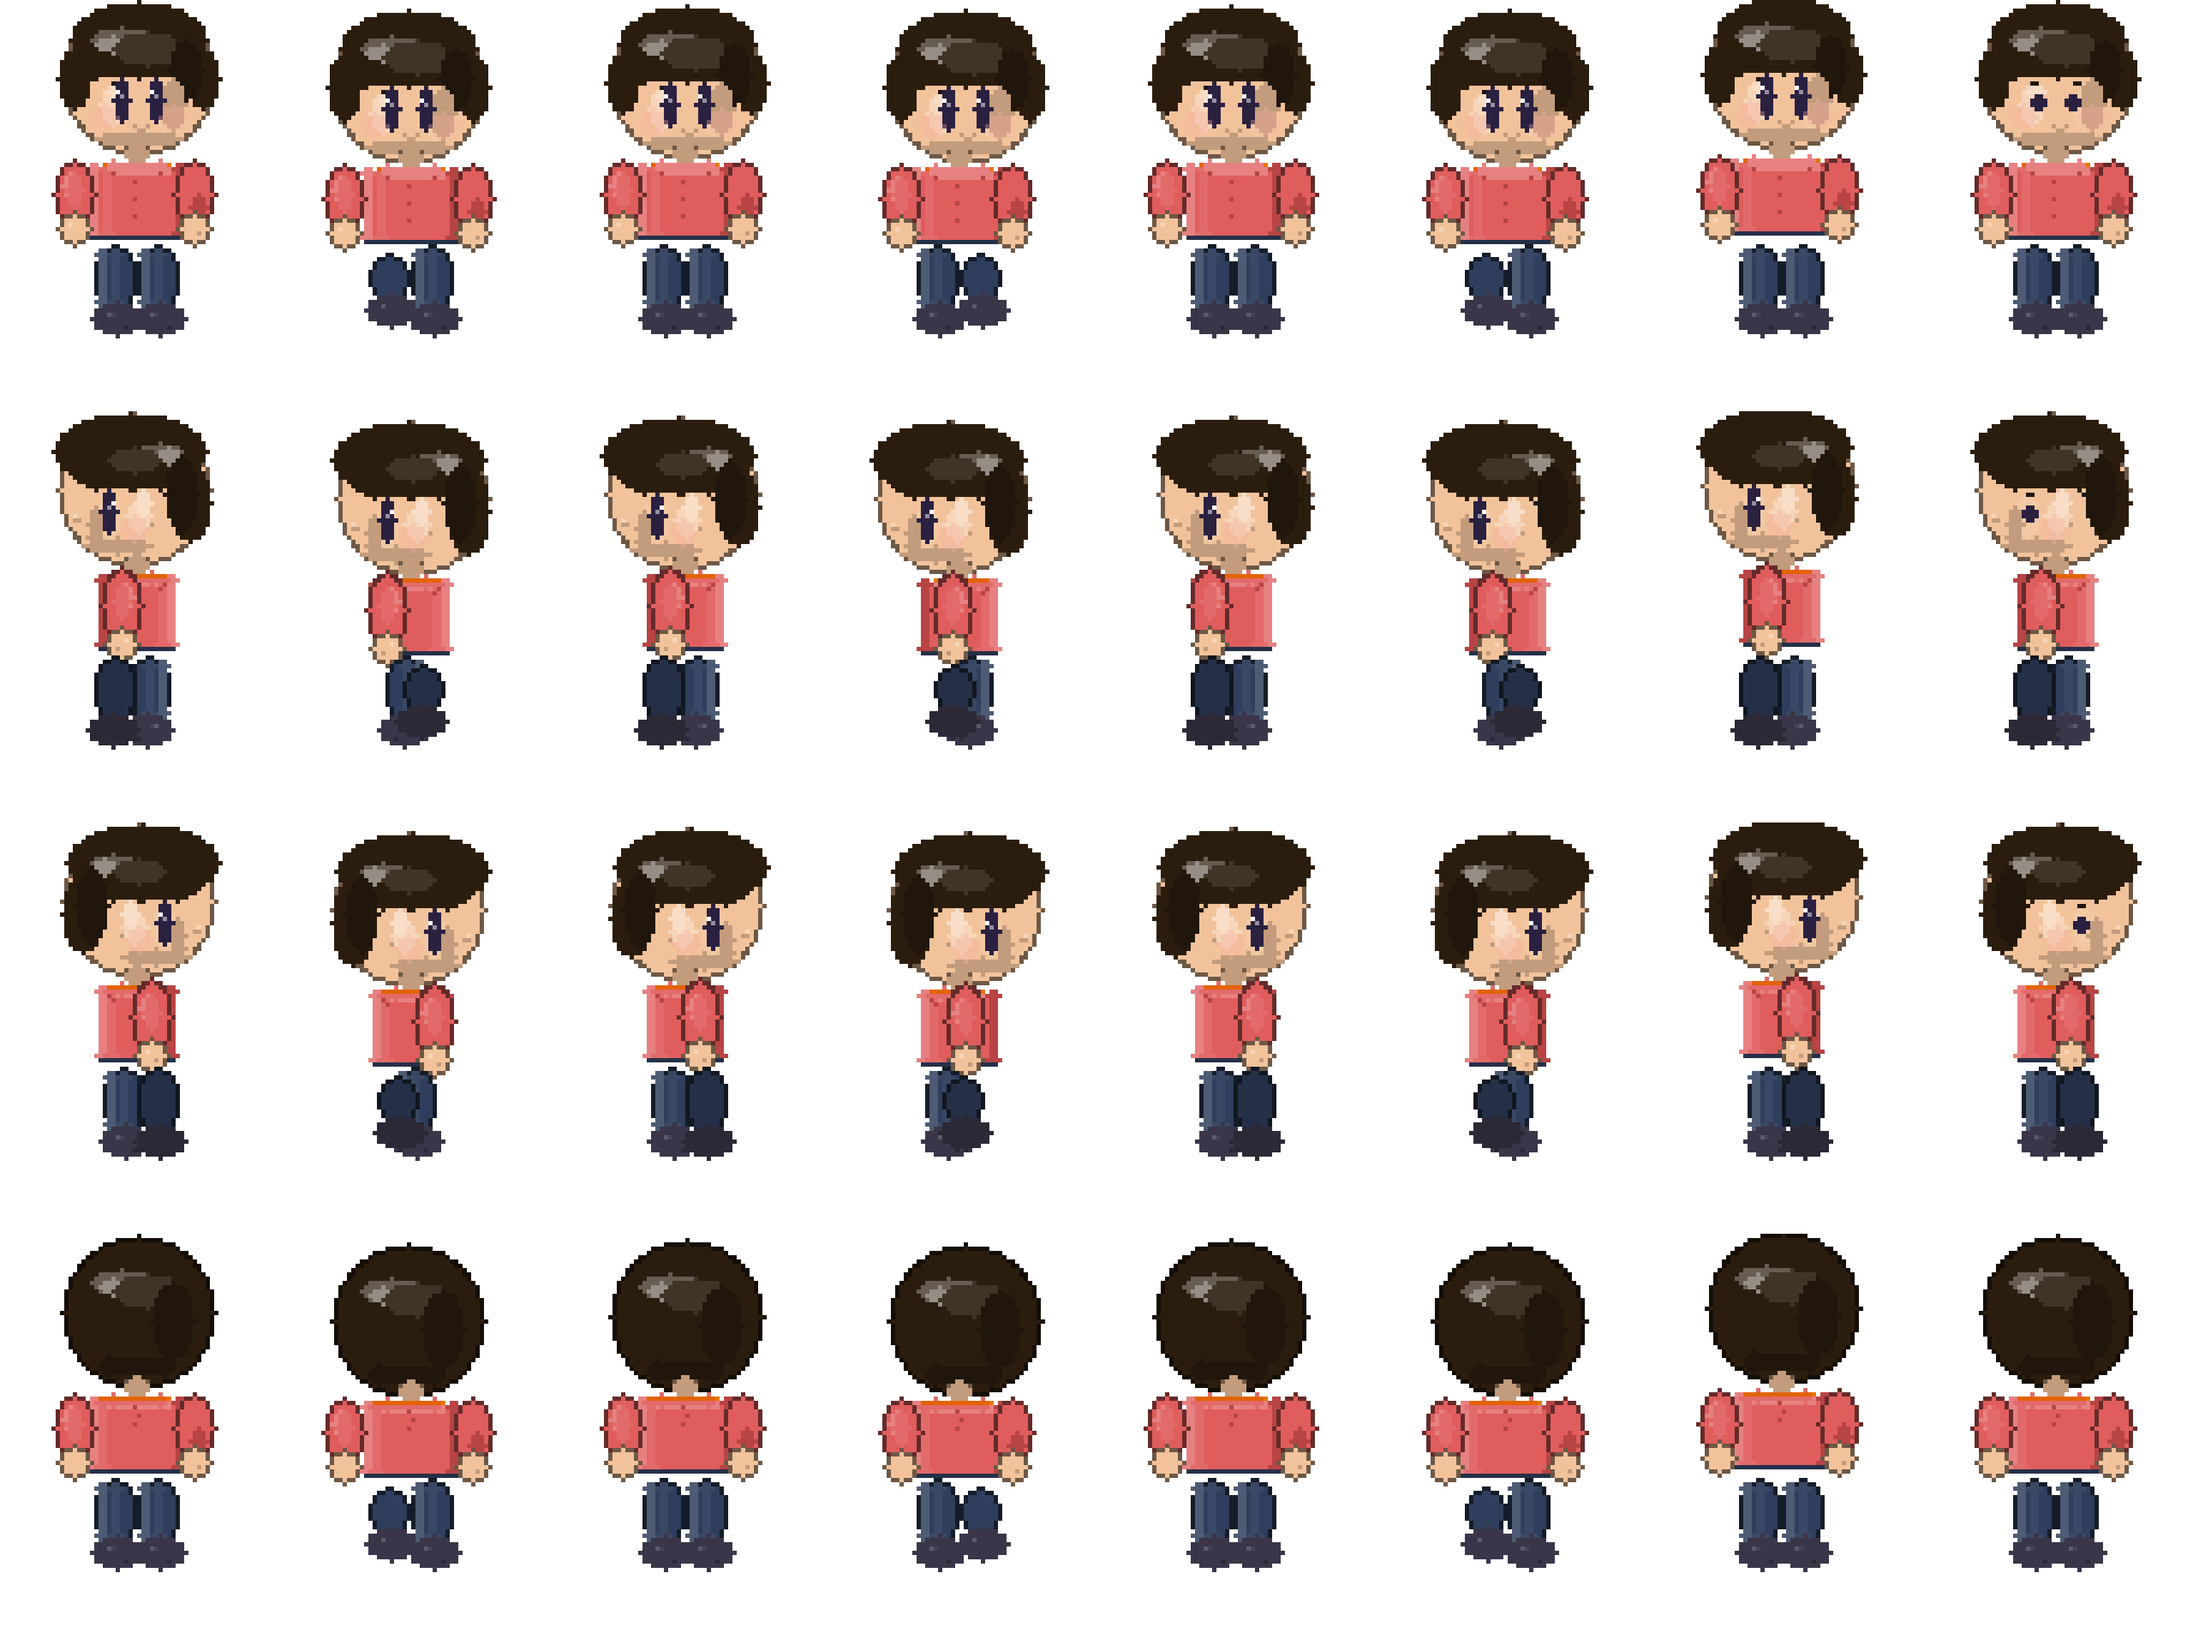
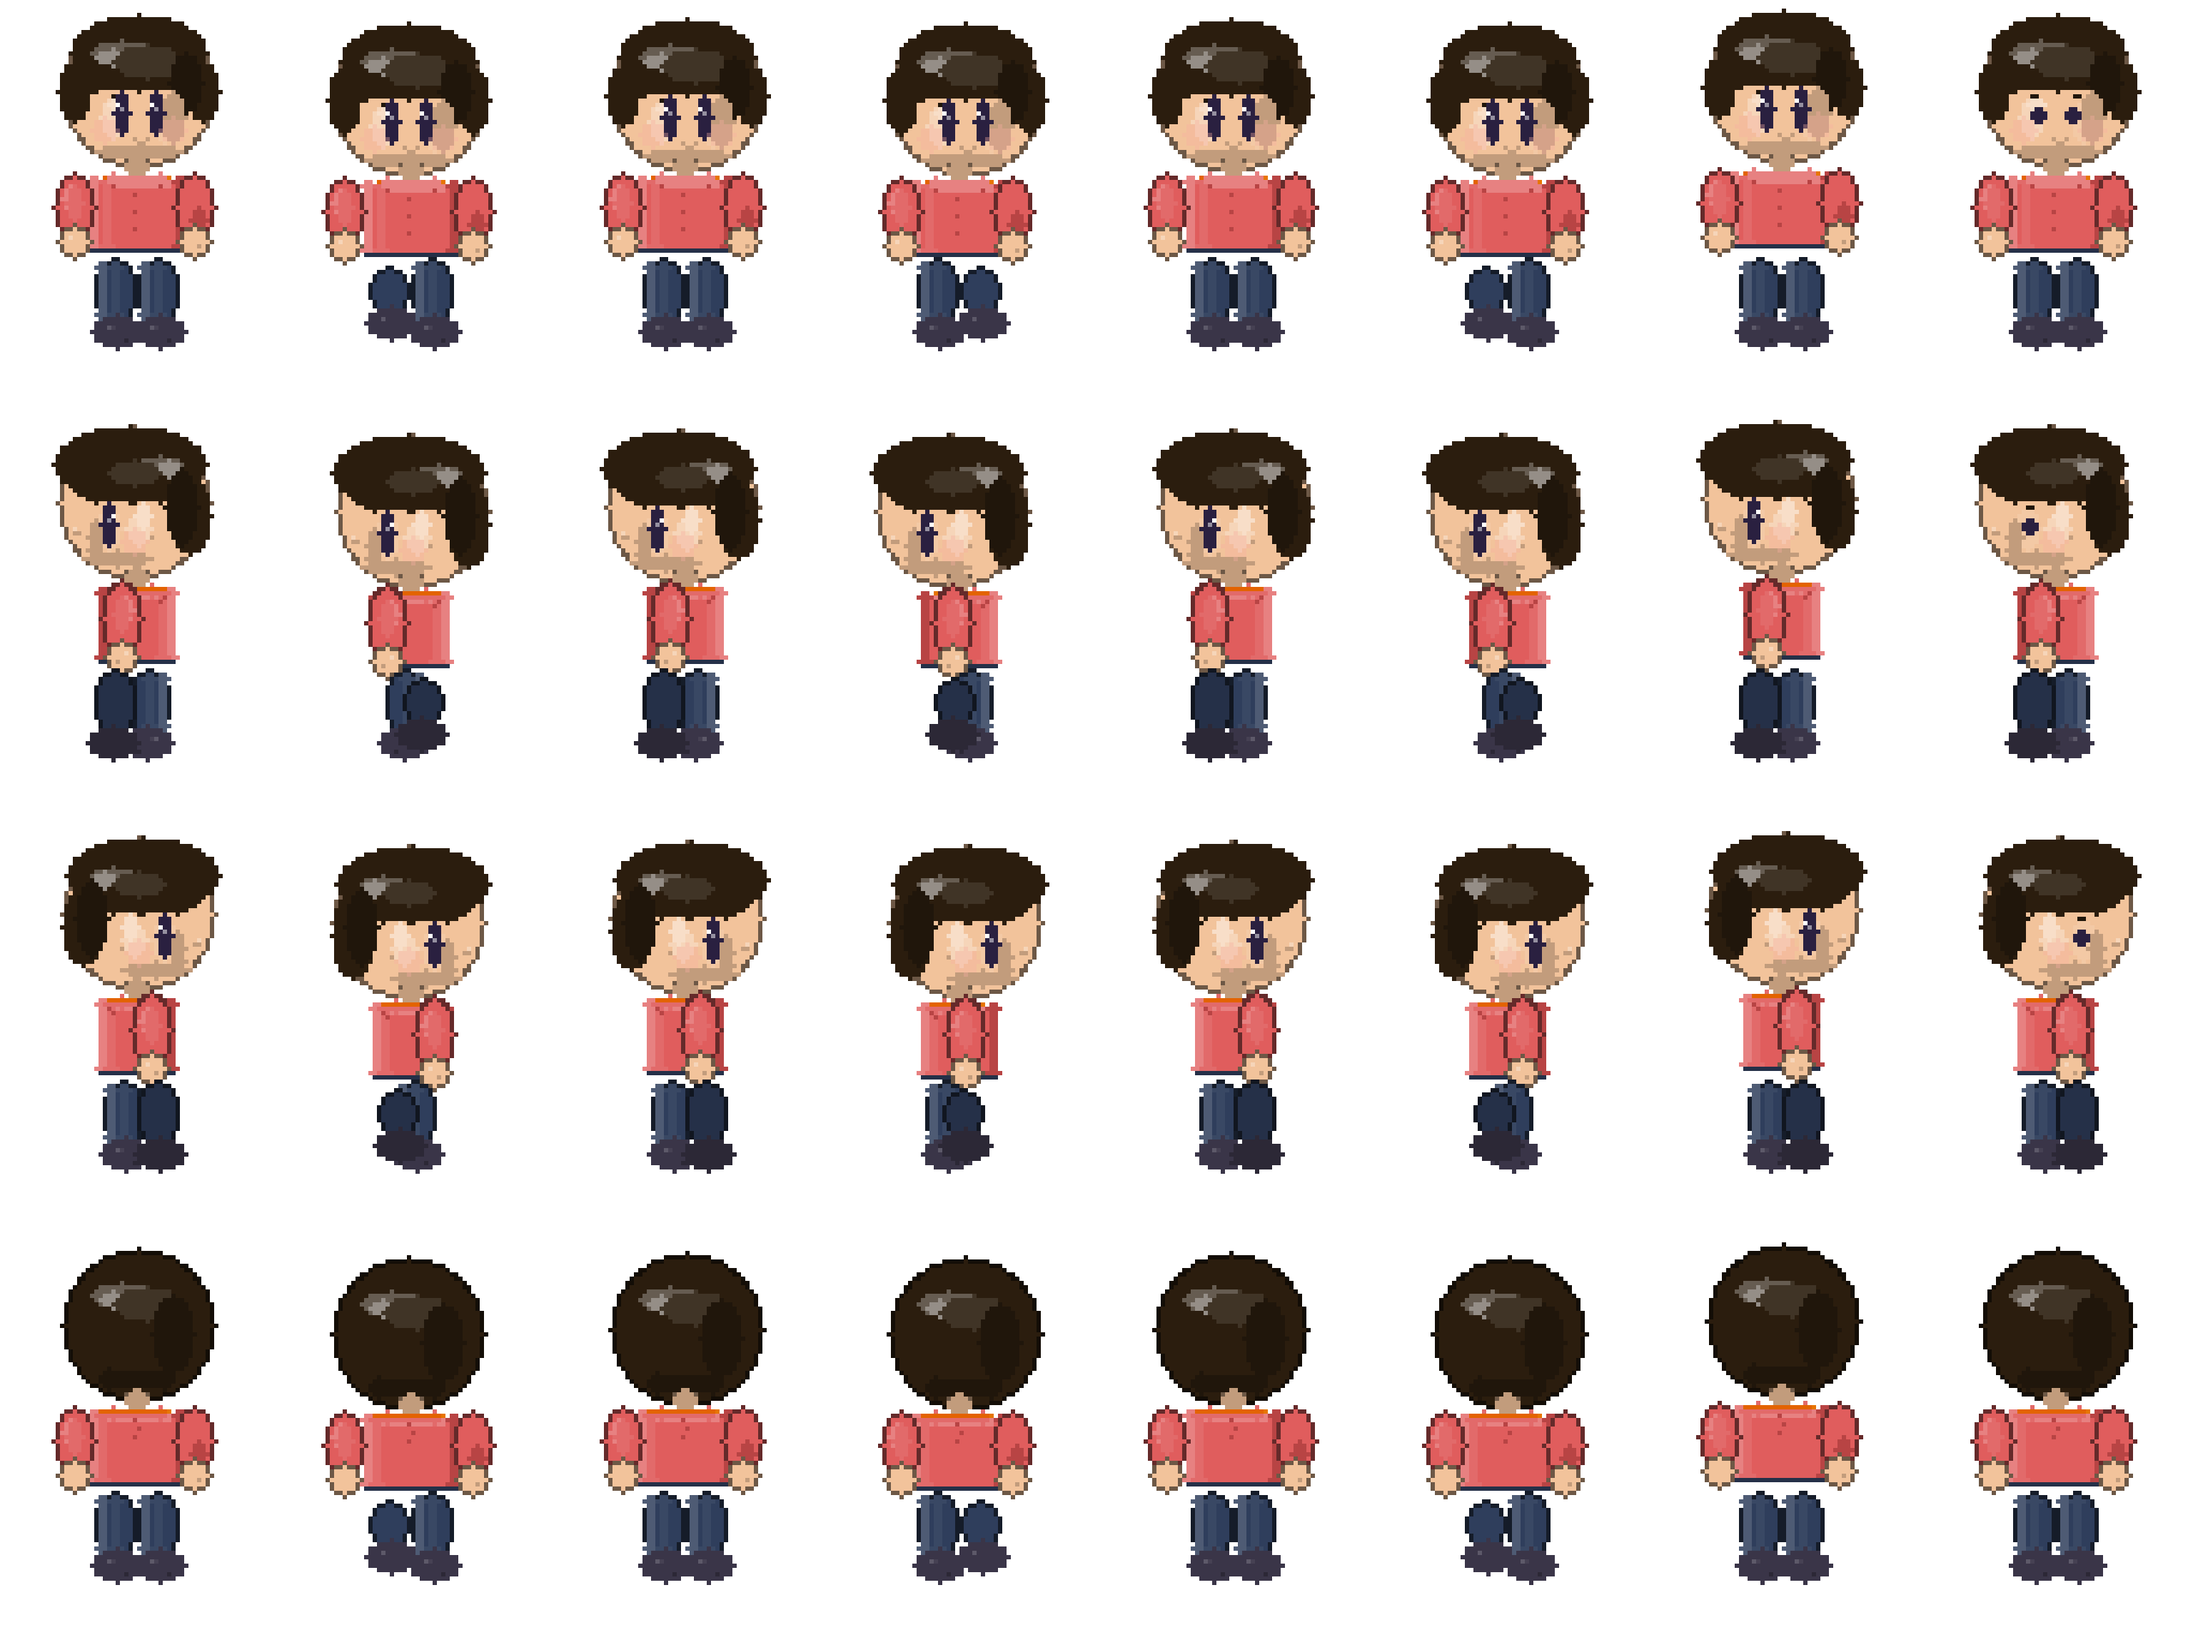
Add 3px vertical guard band inside frames to stop GPU sampling bleed (hat/hair from frame below showing as line under idle sprites)

diff --git a/shared/char-draw.ts b/shared/char-draw.ts
@@ -104,13 +104,14 @@ export function drawChar(s: DrawSurface, ox: number, oy: number, pal: CharPalett
   const shoeMid = mix(SHOE, "#ffffff", 0.06);
   const shoeDk = mix(SHOE, "#000000", 0.25);
 
-  // Offset helpers
+  // Offset helpers — +3px vertical guard band so no frame has content on its
+  // top rows (prevents GPU sampling bleed from adjacent frames in the sheet)
   const hx = (x: number) => ox + x + headSway;
-  const hy = (y: number) => oy + y + headBob;
+  const hy = (y: number) => oy + y + headBob + 3;
   const bx = (x: number) => ox + x;
-  const by = (y: number) => oy + y + bodyBob;
+  const by = (y: number) => oy + y + bodyBob + 3;
   const lx = (x: number) => ox + x;
-  const ly = (y: number) => oy + y;
+  const ly = (y: number) => oy + y + 3;
 
   // Shape helpers — dynamic outline based on fill color
   const el = (cx: number, cy: number, rx: number, ry: number, c: string) => s.fillEllipse(cx, cy, rx, ry, c);
